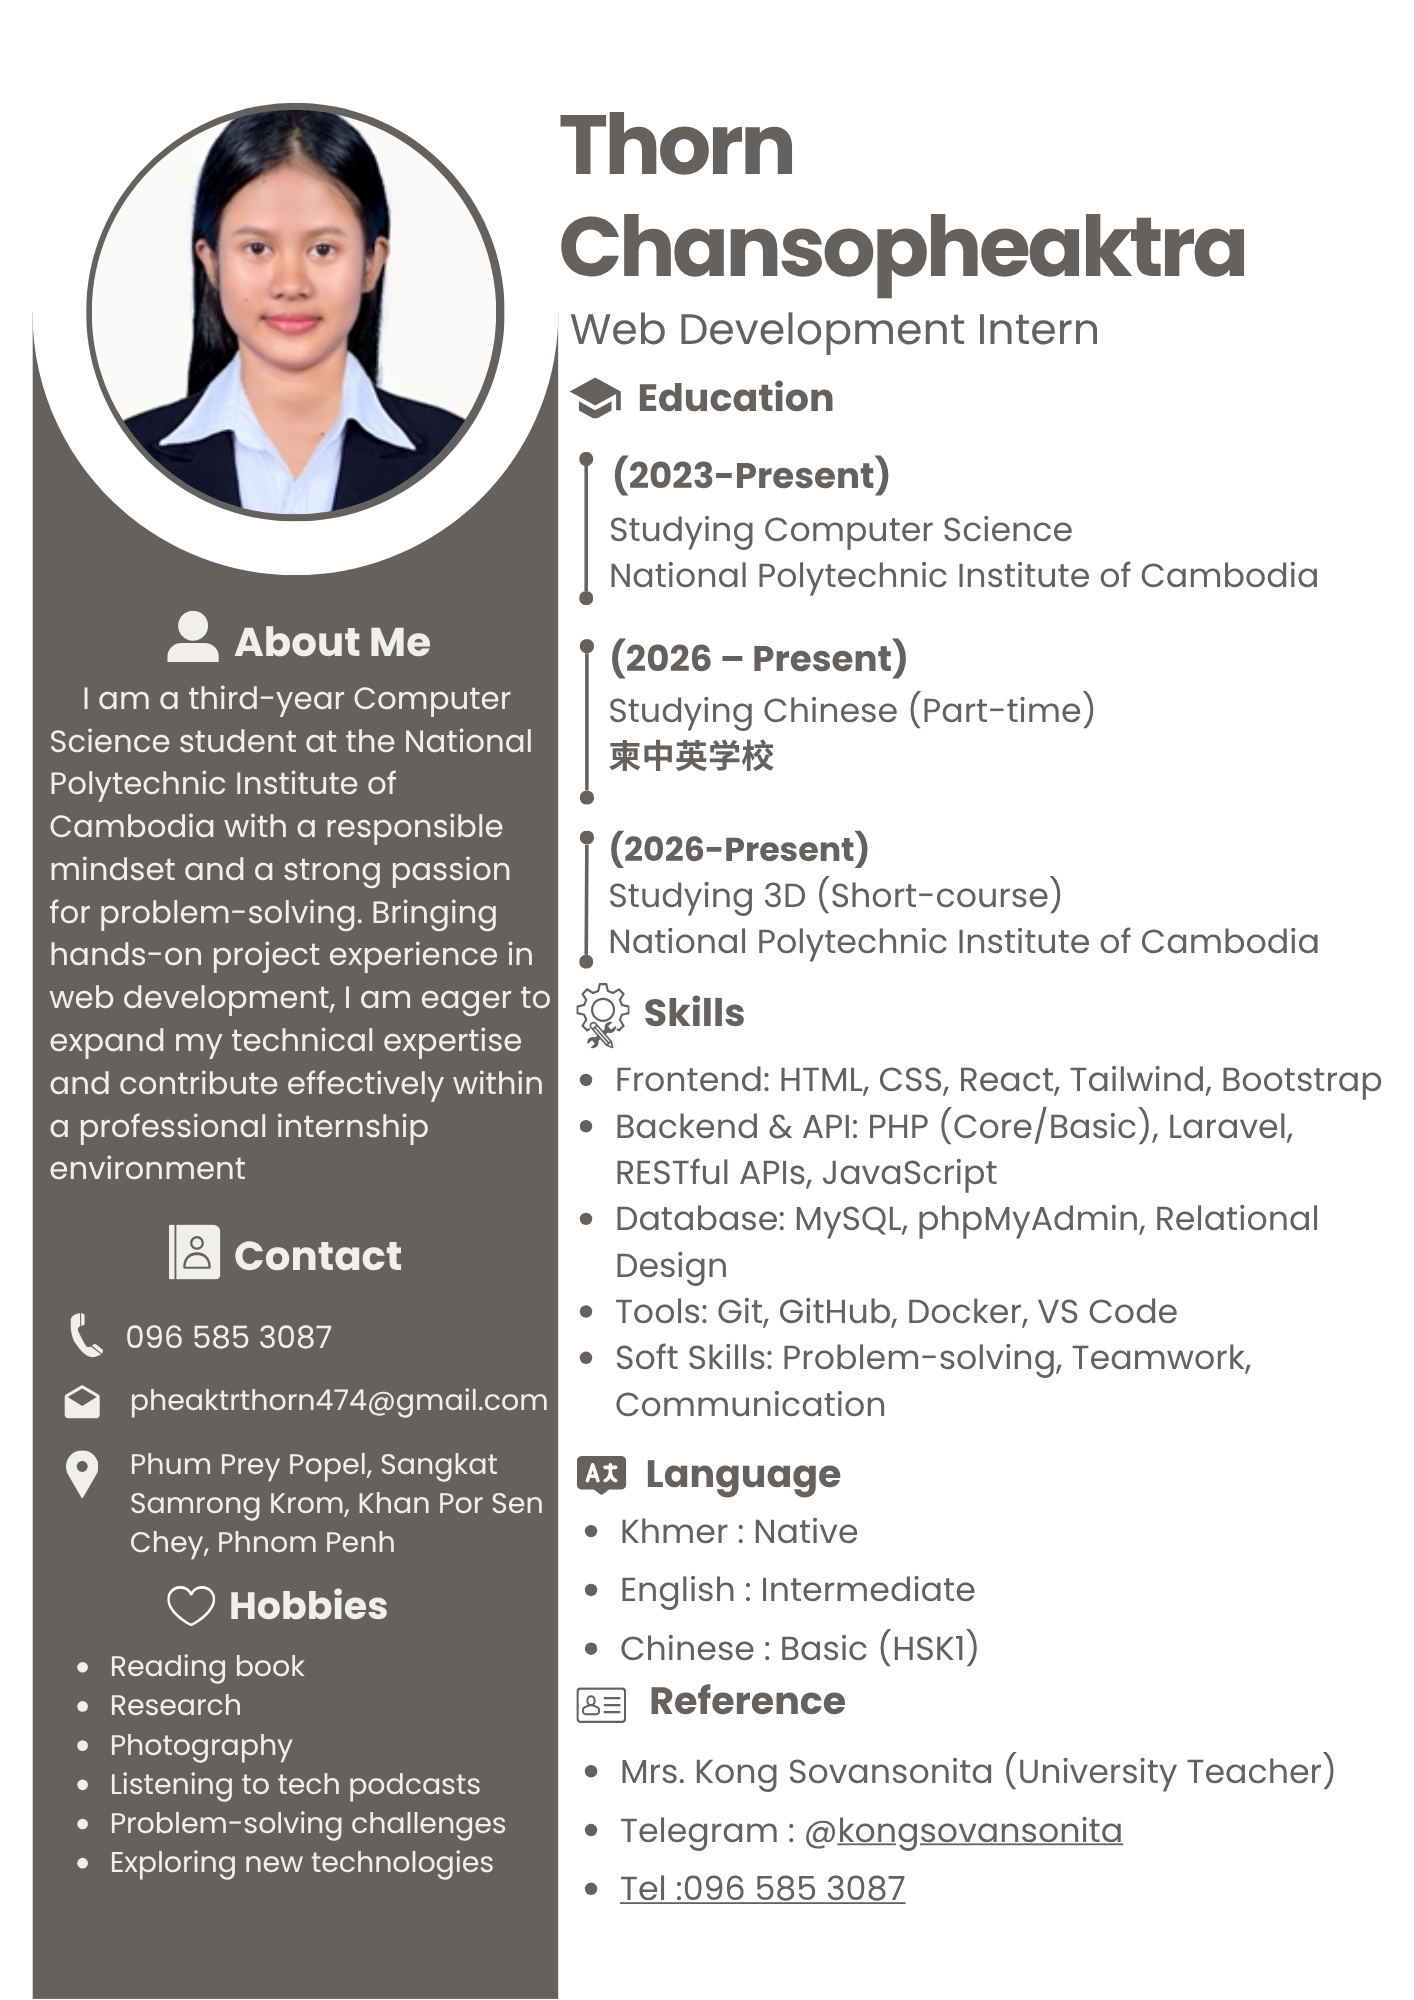
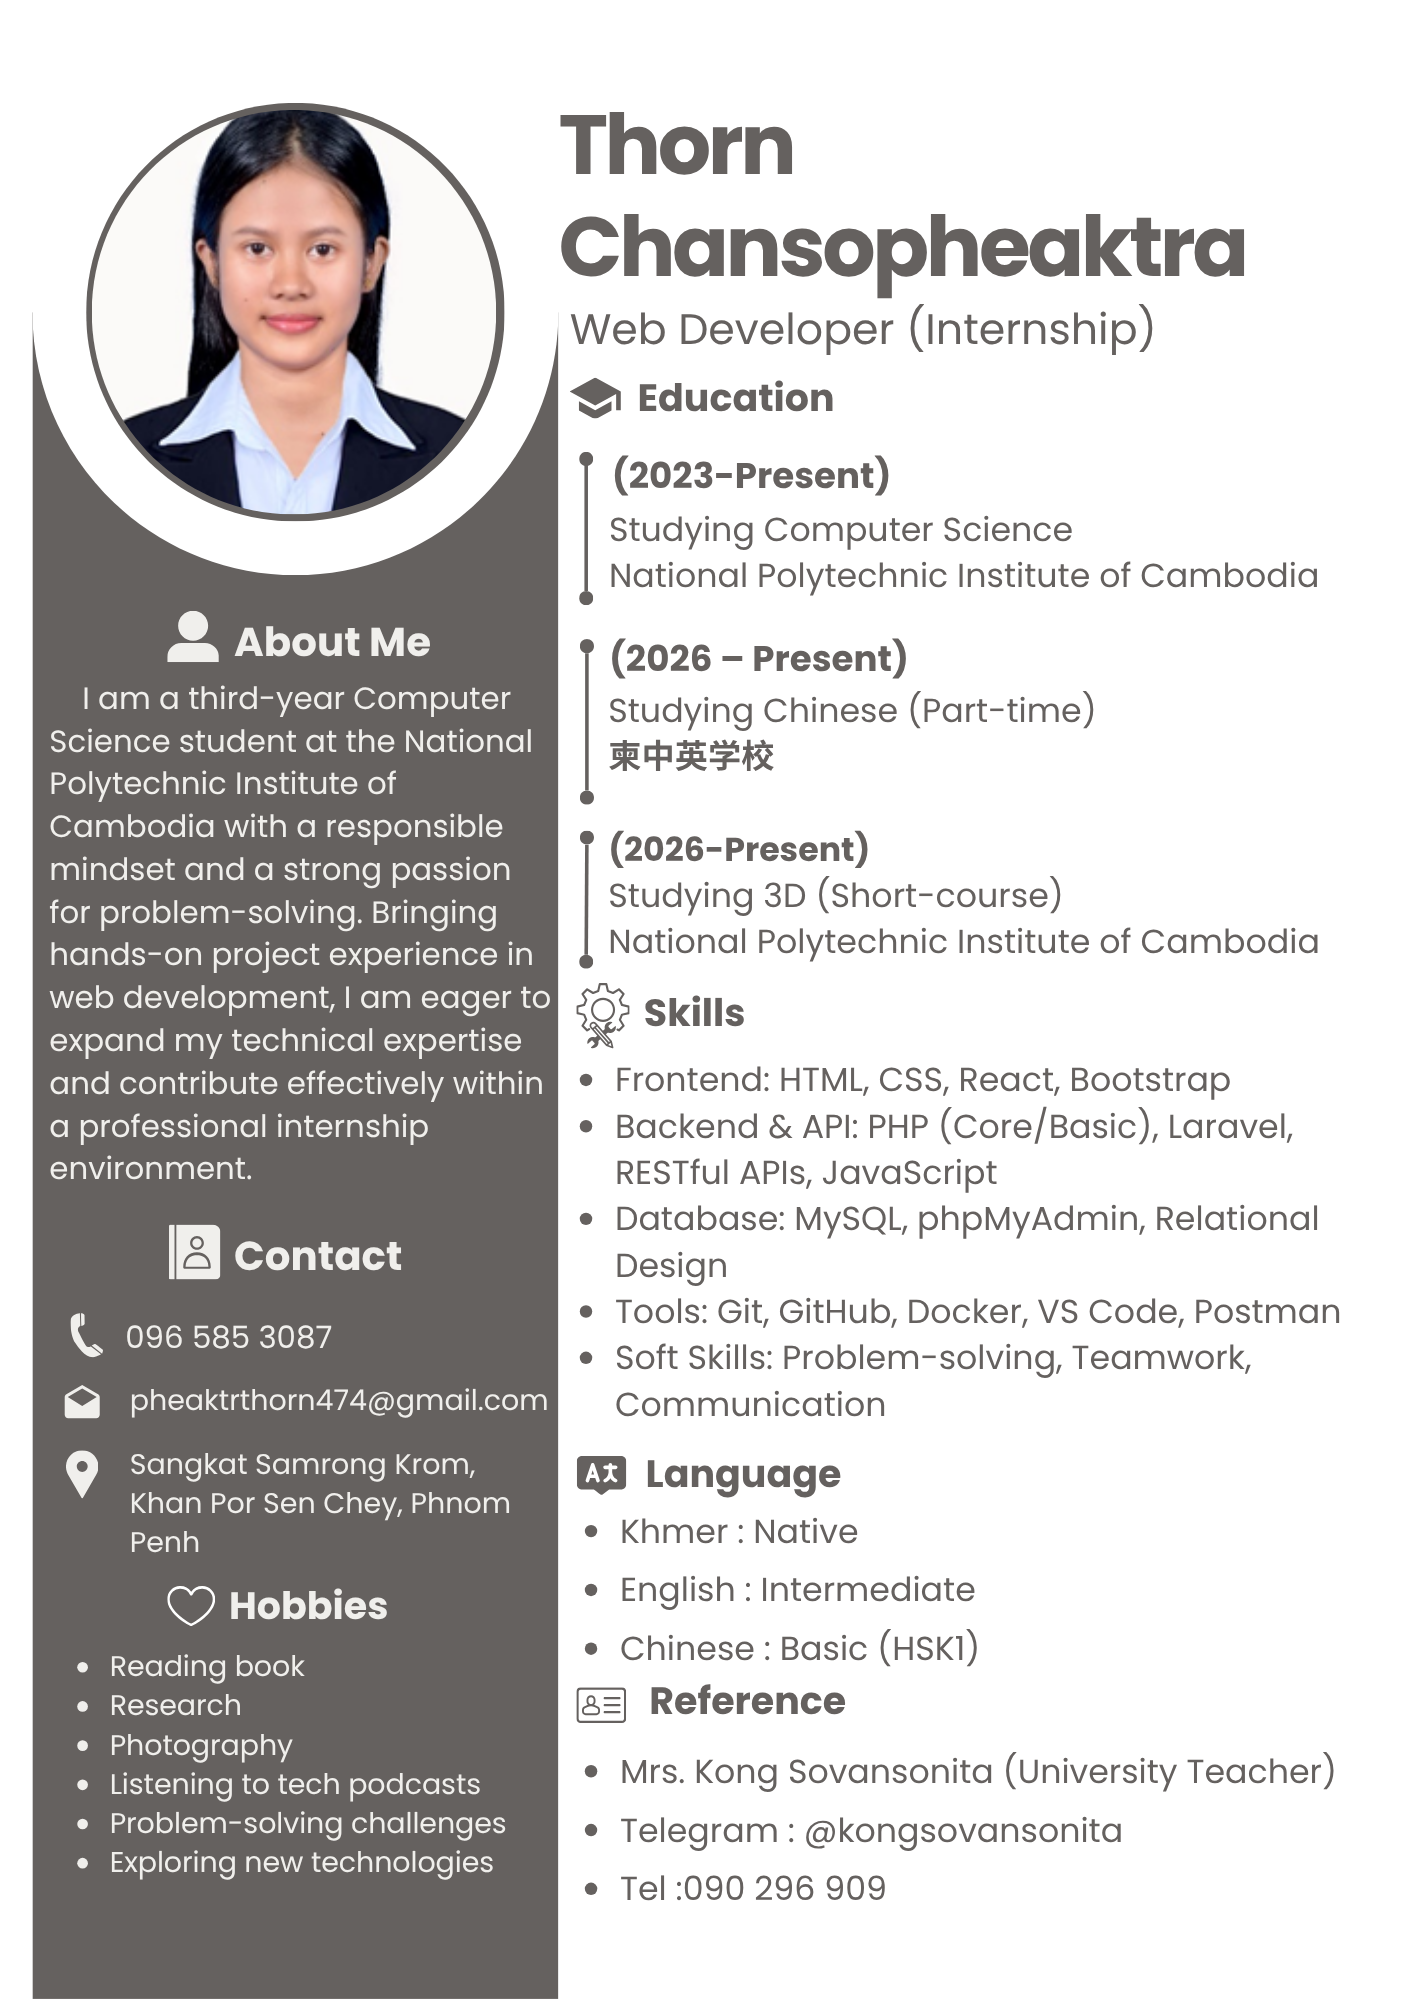
update portfolio

diff --git a/src/components/Projects.jsx b/src/components/Projects.jsx
@@ -1,13 +1,12 @@
 import React, { useState } from "react";
 import "./style/project.css";
+import pypng from "../assets/pandp.png";
+import foodpng from "../assets/fooddash.png";
+import expensepng from "../assets/expense.png";
+import attendSystem from "../assets/attendanceSystem.png";
+import todo from "../assets/todo.png";
+
 import { FaGithub, FaExternalLinkAlt, FaCode } from "react-icons/fa";
-
-const pypng = "/pandp.png";
-const foodpng = "/fooddash.png";
-const expensepng = "/expense.png";
-const todo = "/todo.png";
-const attendSystem = "/attendanceSystem.png";
-
 function Projects() {
   const [filter, setFilter] = useState("all");
 
@@ -42,24 +41,24 @@ function Projects() {
       category: "fullstack",
       categoryLabel: "Full-Stack Web App",
       description:
-        "A dynamic food delivery and ordering web application built with a robust backend architecture, offering interactive food menus, category filters, and checkout workflows.",
-      tech: ["Laravel", "PHP", "MySQL", "JavaScript", "Bootstrap"],
+        "Student attendance tracking system with real-time status summaries (Present, Absent, Late) ",
+      tech: ["PHP", "MySQL", "Bootstrap"],
       github: "https://github.com/pheaktra1402/attendanceSystem",
-      live: "https://fooddash-qxgq.onrender.com/",
+      // live: "https://fooddash-qxgq.onrender.com/",
       image: attendSystem,
     },
-    {
-      id: 4,
-      title: "Personal Expense Tracker",
-      category: "utility",
-      categoryLabel: "Financial Utility",
-      description:
-        "An interactive personal finance application for logging daily income and expenses, organizing spending categories, and keeping track of budget totals.",
-      tech: ["JavaScript", "HTML5", "CSS3", "Bootstrap"],
-      github: "https://github.com/pheaktra1402/Expense_Tracker",
-      live: "https://expense-tracker-black-theta-96.vercel.app/",
-      image: expensepng,
-    },
+    // {
+    //   id: 4,
+    //   title: "Hotel Management System",
+    //   category: "fullstack",
+    //   categoryLabel: "Full-Stack Web App",
+    //   description:
+    //     "An interactive personal finance application for logging daily income and expenses, organizing spending categories, and keeping track of budget totals.",
+    //   tech: ["Laravel", "React", "MySQL"],
+    //   github: "https://github.com/pheaktra1402/Expense_Tracker",
+    //   live: "https://expense-tracker-black-theta-96.vercel.app/",
+    //   image: expensepng,
+    // },
     {
       id: 4,
       title: "Personal Expense Tracker",
@@ -85,7 +84,11 @@ function Projects() {
       image: todo,
     },
   ];
-
+  const threeDproject ={
+    id:1,
+    tittle: "Class Room",
+    image:todo,
+  }
   const filteredProjects =
     filter === "all"
       ? projectLists

diff --git a/src/components/Skills.jsx b/src/components/Skills.jsx
@@ -7,15 +7,15 @@ import {
   FaDocker, FaGlobe, FaCode, FaLayerGroup, 
   FaServer, FaTools 
 } from 'react-icons/fa';
-
+import { SiPostman } from 'react-icons/si';
 function Skills() {
   const skillCategories = [
     {
       title: "Programming Languages",
       icon: <FaCode className="cat-icon" />,
       skills: [
-        { name: "PHP", icon: <FaPhp />, level: "basic" },
-        { name: "JavaScript", icon: <FaJs />, level: "basic" },
+        { name: "PHP", icon: <FaPhp />, level: "Intermediate" },
+        { name: "JavaScript", icon: <FaJs />, level: "Intermediate" },
         { name: "Java", icon: <FaJava />, level: "Basic" },
         { name: "Python", icon: <FaPython />, level: "Basic" }
       ]
@@ -25,19 +25,19 @@ function Skills() {
       icon: <FaLayerGroup className="cat-icon" />,
       skills: [
         { name: "HTML", icon: <FaHtml5 />, level: "Intermediate" },
-        { name: "CSS / Modern CSS", icon: <FaCss3Alt />, level: "Intermediate" },
-        { name: "React", icon: <FaReact />, level: "Intermediate" },
+        { name: "CSS", icon: <FaCss3Alt />, level: "Intermediate" },
+        { name: "React", icon: <FaReact />, level: "Basic" },
         { name: "Bootstrap", icon: <FaBootstrap />, level: "Intermediate" },
-        { name: "Tailwind CSS", icon: <FaCss3Alt />, level: "basic" }
+        { name: "Tailwind CSS", icon: <FaCss3Alt />, level: "Basic" }
       ]
     },
     {
       title: "Backend & Frameworks",
       icon: <FaServer className="cat-icon" />,
       skills: [
-        { name: "Laravel", icon: <FaLaravel />, level: "Intermediate" },
-        { name: "PHP Core", icon: <FaPhp />, level: "basic" },
-        { name: "RESTful APIs", icon: <FaCode />, level: "basic" }
+        { name: "Laravel", icon: <FaLaravel />, level: "Basic" },
+        { name: "PHP Core", icon: <FaPhp />, level: "Intermediate" },
+        { name: "RESTful APIs", icon: <FaCode />, level: "Basic" }
       ]
     },
     {
@@ -54,9 +54,10 @@ function Skills() {
       icon: <FaTools className="cat-icon" />,
       skills: [
         { name: "Git", icon: <FaGitAlt />, level: "Basic" },
-        { name: "GitHub", icon: <FaGithub />, level: "Intermediate" },
+        { name: "GitHub", icon: <FaGithub />, level: "Basic" },
         { name: "Docker", icon: <FaDocker />, level: "Basic" },
-        { name: "VS Code", icon: <FaCode />, level: "Intermediate" }
+        { name: "VS Code", icon: <FaCode />, level: "Intermediate" },
+        { name: "Postman", icon: <SiPostman/>, level: "Intermediate" },
       ]
     },
     {

diff --git a/src/components/Hero.jsx b/src/components/Hero.jsx
@@ -1,16 +1,13 @@
 import React from "react";
 import "./style/hero.css";
-
+import heroImg from '../assets/me.jpg'
+import myCv from '../assets/Thorn_Chansopheaktra.png'
 import {
   FaArrowRight,
   FaPaperPlane,
   FaGithub,
   FaTelegram,
 } from "react-icons/fa";
-
-const heroImg = "/me.JPG";
-const myCv = "/Thorn_Chansopheaktra.png";
-
 function Hero() {
   return (
     <section id="hero" className="hero-section">
@@ -82,21 +79,21 @@ function Hero() {
           </div>
 
           {/* Floating Experience Badges */}
-          <div className="floating-badge badge-top">
+          {/* <div className="floating-badge badge-top">
             <span className="badge-icon">🎓</span>
             <div>
               <strong>3rd Year CS</strong>
               <small>@ NPIC Phnom Penh</small>
             </div>
-          </div>
+          </div> */}
 
-          <div className="floating-badge badge-bottom">
+          {/* <div className="floating-badge badge-bottom">
             <span className="badge-icon">🚀</span>
             <div>
               <strong>Web & Backend</strong>
               <small>Laravel / React / MySQL</small>
             </div>
-          </div>
+          </div> */}
         </div>
       </div>
     </section>

diff --git a/src/components/AboutMe.jsx b/src/components/AboutMe.jsx
@@ -81,7 +81,7 @@ function AboutMe() {
 
             {/* Core Values Badges */}
             <div className="bio-values">
-              <span className="value-badge"><FaCheckCircle /> Clean Code</span>
+              {/* <span className="value-badge"><FaCheckCircle /> Clean Code</span> */}
               <span className="value-badge"><FaCheckCircle /> User-Centric Design</span>
               <span className="value-badge"><FaCheckCircle /> Continuous Learning</span>
               <span className="value-badge"><FaCheckCircle /> Team Collaboration</span>

diff --git a/src/components/Education.jsx b/src/components/Education.jsx
@@ -19,9 +19,10 @@ function Education() {
         "Comprehensive study of software engineering principles, algorithm design, full-stack web development (Laravel/React), database systems (MySQL), and computer networking.",
       courses: [
         "Web Architecture",
+        "Web development",
         "Database Systems",
-        "OOP with Java & PHP",
-        "Data Structures & Algorithms",
+        // "OOP with Java & PHP",
+        // "Data Structures & Algorithms",
       ],
     },
     {

diff --git a/src/components/Contact.jsx b/src/components/Contact.jsx
@@ -88,7 +88,7 @@ function Contact() {
                 </div>
                 <div className="card-details">
                   <span className="card-label">Location</span>
-                  <strong className="card-value">Phum Prey Popel, Sangkat Samrong Krom, Khan Por Sen Chey, Phnom Penh</strong>
+                  <strong className="card-value">Sangkat Samrong Krom, Khan Por Sen Chey, Phnom Penh</strong>
                 </div>
               </div>
 
